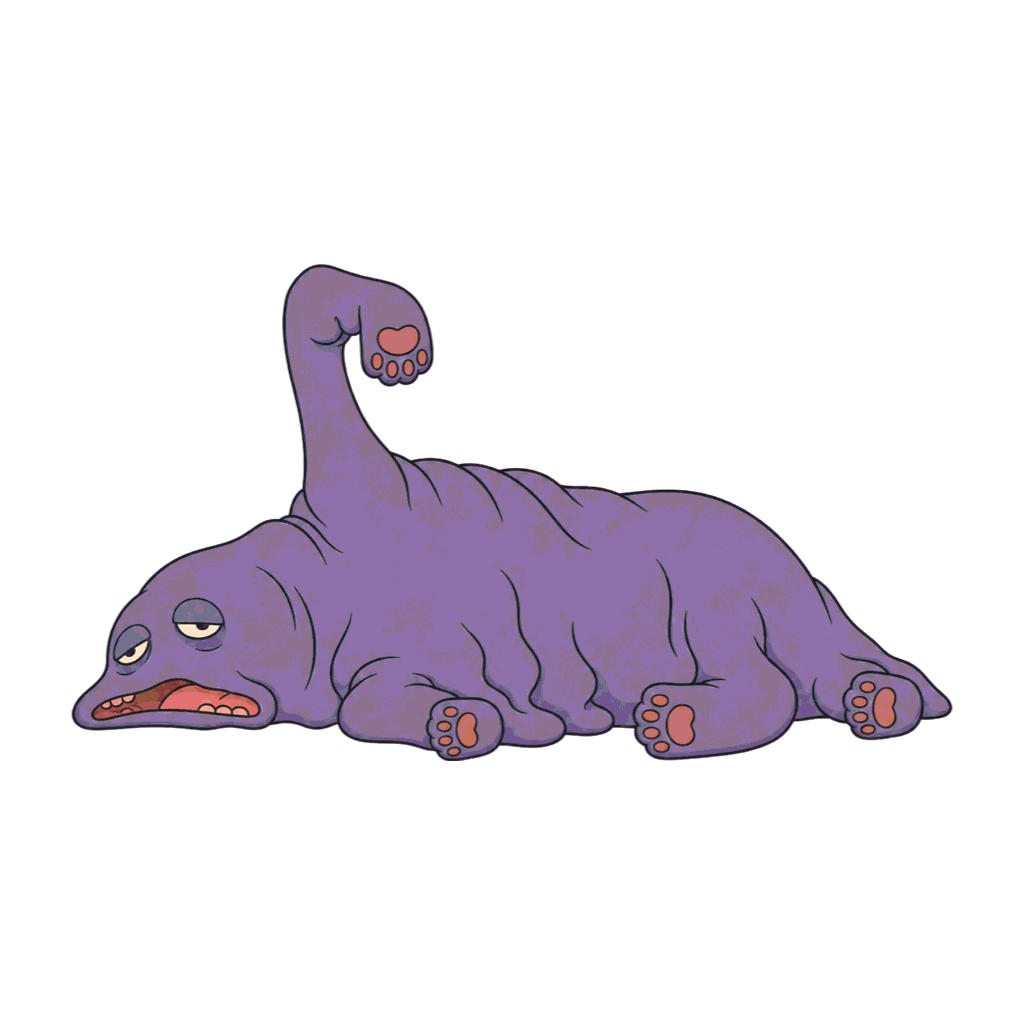
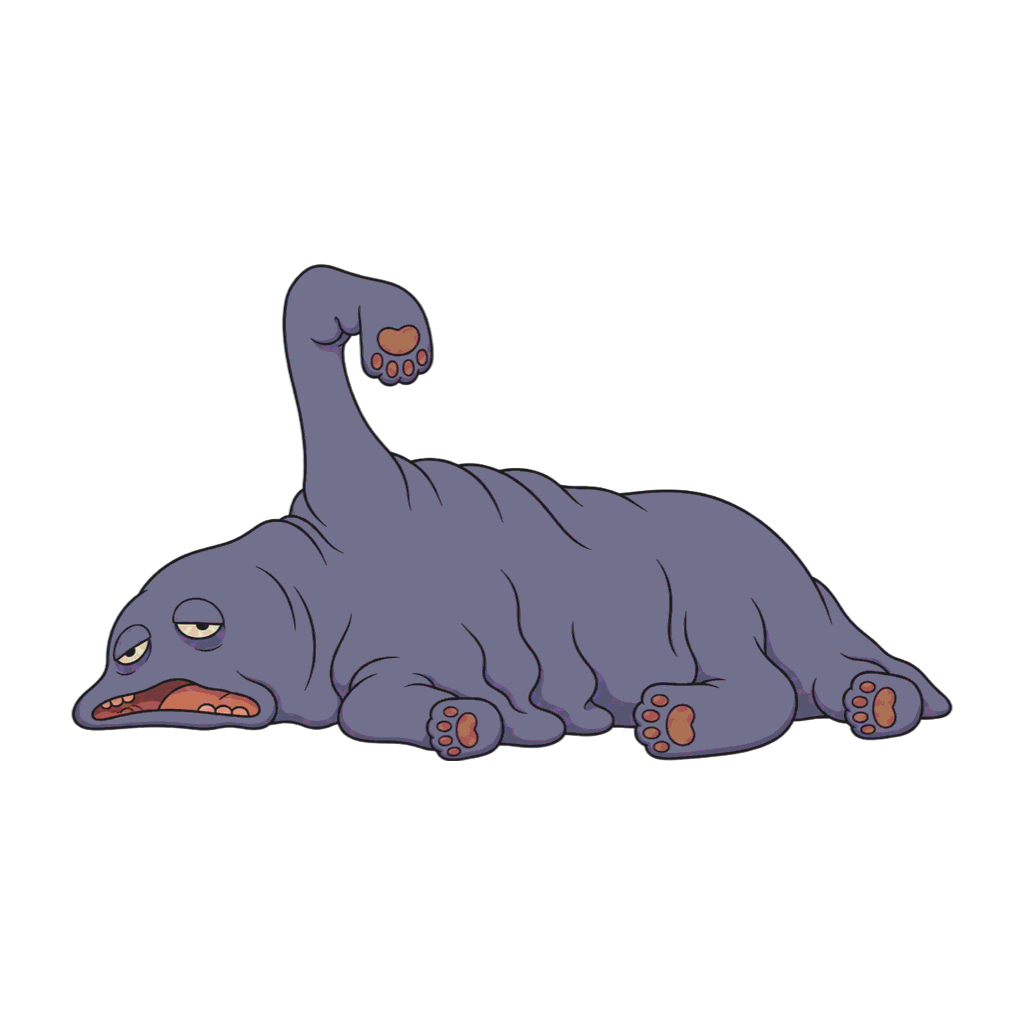
fix: 色の正規化を後処理に移し、生成の引き直し問題を回避した
ダラリの頭が胴と一体化して「切れて見える」という指摘から始まり、4回作り直した
結果、生成は毎回すべての属性を引き直すことが分かった。ある属性を指定で直すと
別の属性が壊れる。

  1回目 頭が平ら / 2回目 頭は直ったが痩せた / 3回目 質量は戻ったが紫に寄った
  4回目 色は直ったが頭が戻った

ゴロネでも同じことが起きている（向きを固定したら四肢が消えた）。

そこで役割を分けた。シルエットと造形は生成でしか作れないのでプロンプトで扱うが、
**明度と彩度は後処理で機械的に揃える**。ART_PROMPTS.md 4章が「生成のばらつきは
ここで吸収する」と書いているとおりで、最初からこうすべきだった。

パイプラインが不透明部の平均明度を 107、平均彩度を 0.23 に寄せる。色相は触らない
ので個体ごとの色味は残る。全アセットに同じ目標を適用するため、「1体だけ明るい」
「1体だけ紫」が構造的に起きなくなる。

結果、明度の幅 11.9 → 7.2、彩度は 0.215〜0.229 に収束した。ゴロネの紫寄り（0.287）
も解消。実測ツールにも彩度とアクセント面積の合否判定を追加した。

STYLE SPEC の明度・彩度の記述は保険として残すが、主たる手段ではないと明記した。

Changed region(s): [[0.0625, 0.25, 0.9375, 0.75]]

diff --git a/tools/artpipeline/main.swift b/tools/artpipeline/main.swift
@@ -50,6 +50,14 @@ enum Config {
 
     /// ポスタリゼーションの階調数。8〜12色相当。
     static let posterizeLevels = 10
+
+    /// 色の正規化の目標値。
+    ///
+    /// **明度と彩度はプロンプトで揃えようとしないこと。** 生成は毎回すべての属性を
+    /// 引き直すため、色を指定し直すと造形が崩れる（実際にダラリで3回起きた）。
+    /// シルエットは生成でしか作れないが、色は機械的に揃えられる。ここで吸収する。
+    static let targetLuminance = 107.0
+    static let targetSaturation = 0.23
 }
 
 // MARK: - 画像の読み書き
@@ -315,6 +323,56 @@ func normalize(_ bitmap: Bitmap) -> Bitmap? {
     return Bitmap(width: side, height: side, pixels: output)
 }
 
+// MARK: - 3b. 色の正規化
+
+/// 不透明部の平均明度と平均彩度を目標値へ寄せる。
+///
+/// 全アセットに同じ目標を適用するので、並べたときに「1体だけ明るい」「1体だけ紫」が
+/// 構造的に起きなくなる。色相は触らないため、個体ごとの色味の差は残る。
+func normalizeColor(_ bitmap: inout Bitmap) -> (luminance: Double, saturation: Double) {
+    var lumSum = 0.0, satSum = 0.0, count = 0
+    for y in 0..<bitmap.height {
+        for x in 0..<bitmap.width {
+            let p = bitmap[x, y]
+            guard p.a > 128 else { continue }
+            let r = Double(p.r), g = Double(p.g), b = Double(p.b)
+            lumSum += 0.2126 * r + 0.7152 * g + 0.0722 * b
+            let mx = max(r, g, b), mn = min(r, g, b)
+            satSum += mx > 0 ? (mx - mn) / mx : 0
+            count += 1
+        }
+    }
+    guard count > 0 else { return (0, 0) }
+
+    let meanLum = lumSum / Double(count)
+    let meanSat = satSum / Double(count)
+    let lumScale = meanLum > 0 ? Config.targetLuminance / meanLum : 1
+    let satScale = meanSat > 0 ? Config.targetSaturation / meanSat : 1
+
+    for y in 0..<bitmap.height {
+        for x in 0..<bitmap.width {
+            var p = bitmap[x, y]
+            guard p.a > 0 else { continue }
+            var r = Double(p.r), g = Double(p.g), b = Double(p.b)
+
+            // 彩度: 各画素の最大値からの差を伸縮させる。色相は保つ。
+            let mx = max(r, g, b)
+            r = mx - (mx - r) * satScale
+            g = mx - (mx - g) * satScale
+            b = mx - (mx - b) * satScale
+
+            // 明度: 全体を一律に伸縮させる。
+            r *= lumScale; g *= lumScale; b *= lumScale
+
+            p.r = UInt8(max(0, min(255, r)))
+            p.g = UInt8(max(0, min(255, g)))
+            p.b = UInt8(max(0, min(255, b)))
+            bitmap[x, y] = p
+        }
+    }
+    return (meanLum, meanSat)
+}
+
 // MARK: - 4. ポスタリゼーション
 
 /// 全アセットに同一設定で適用する。生成ごとの微妙な色の揺れを吸収する。
@@ -351,6 +409,7 @@ guard var normalized = normalize(bitmap) else {
     print("本体が見つかりません（背景の除去が効きすぎている可能性）: \(arguments[1])")
     exit(1)
 }
+let before = normalizeColor(&normalized)
 posterize(&normalized)
 
 guard normalized.write(to: arguments[2]) else {
@@ -360,7 +419,8 @@ guard normalized.write(to: arguments[2]) else {
 
 let total = bitmap.width * bitmap.height
 let percent = Double(removed) / Double(total) * 100
-print(String(format: "%@ → %@  背景除去 %.1f%%  %dx%d",
+print(String(format: "%@ → %@  背景除去 %.1f%%  色補正 明度%.0f→%.0f 彩度%.2f→%.2f",
              (arguments[1] as NSString).lastPathComponent,
              (arguments[2] as NSString).lastPathComponent,
-             percent, Config.canvasSize, Config.canvasSize))
+             percent, before.luminance, Config.targetLuminance,
+             before.saturation, Config.targetSaturation))

diff --git a/tools/artstats/main.swift b/tools/artstats/main.swift
@@ -31,15 +31,23 @@ for path in CommandLine.arguments.dropFirst() {
     let lum = lumSum / Double(opaque)
     lums.append(lum)
     let name = (path as NSString).deletingPathExtension as NSString
-    print(String(format: "%-14@ %8.1f %7.1f%% %8.3f %7.1f%%",
+    let sat = satSum / Double(opaque)
+    let warmRatio = Double(warm) / Double(opaque) * 100
+    // 合格条件: 彩度 0.20〜0.27（灰紫）/ アクセント面積 3〜6%
+    var flags: [String] = []
+    if sat > 0.27 { flags.append("彩度↑") } else if sat < 0.20 { flags.append("彩度↓") }
+    if warmRatio > 6 { flags.append("アクセント↑") } else if warmRatio < 3 { flags.append("アクセント↓") }
+    print(String(format: "%-14@ %8.1f %7.1f%% %8.3f %7.1f%%  %@",
                  name.lastPathComponent as NSString, lum,
                  Double(opaque) / Double(w * h) * 100,
-                 satSum / Double(opaque),
-                 Double(warm) / Double(opaque) * 100))
+                 sat, warmRatio,
+                 (flags.isEmpty ? "✅" : flags.joined(separator: " ")) as NSString))
 }
 if lums.count > 1 {
     let mean = lums.reduce(0,+) / Double(lums.count)
     let sd = (lums.map { ($0-mean)*($0-mean) }.reduce(0,+) / Double(lums.count)).squareRoot()
-    print(String(format: "\n明度の幅: %.1f 〜 %.1f （差 %.1f / 標準偏差 %.1f）",
-                 lums.min()!, lums.max()!, lums.max()! - lums.min()!, sd))
+    let spread = lums.max()! - lums.min()!
+    print(String(format: "\n明度の幅: %.1f 〜 %.1f （差 %.1f / 標準偏差 %.1f） %@",
+                 lums.min()!, lums.max()!, spread, sd,
+                 (spread <= 15 ? "✅" : "❌ 15以内に収めること") as NSString))
 }

diff --git a/ART_PROMPTS.md b/ART_PROMPTS.md
@@ -67,6 +67,10 @@ STYLE SPEC (identical for every image in this set):
   no texture, no highlights, no glow, no rendering.
 - Limited, desaturated, muted palette. Base hues in the grey-violet and dusty
   blue range.
+- IMPORTANT — the body color must be a MUTED GREY-VIOLET that sits much closer
+  to grey than to purple. It should look almost desaturated, like grey with only
+  a faint violet cast. Never let the body read as a vivid, clearly purple,
+  lavender or lilac color. When in doubt, remove saturation.
 - IMPORTANT — every creature in the set must share the same overall brightness.
   The body must read as a MID-DARK tone: clearly darker than a light background,
   never pale or washed out. Do not make any single creature lighter or airier
@@ -96,7 +100,11 @@ STYLE SPEC (identical for every image in this set):
 
 ```
 CHARACTER: A slouching blob creature that has half-melted downward and pooled
-into a puddle at its own base. Rounded, drooping shoulders it cannot hold up.
+into a puddle at its own base. The body is BULKY, HEAVY and WIDE — a thick
+sagging mass, never thin or spindly. Above it sits a CLEARLY DEFINED ROUNDED
+HEAD: a smooth dome that is somewhat narrower than the bulky body, separated
+from it by sloping drooping shoulders. The head must read as a head, but the
+body below must stay visibly heavier and wider than the head.
 Two heavy-lidded eyes with pupils drifting in different directions. A small
 mouth left hanging open. Two thin arms hanging straight down, dragging on the
 floor. Accent color: dull mustard yellow on the underside of the puddle.
@@ -147,7 +155,11 @@ Accent color: faded brick red on the pads of all visible paws.
 
 ```
 CHARACTER: A slouching blob creature that has half-melted downward and pooled
-into a puddle at its own base. Rounded, drooping shoulders it cannot hold up.
+into a puddle at its own base. The body is BULKY, HEAVY and WIDE — a thick
+sagging mass, never thin or spindly. Above it sits a CLEARLY DEFINED ROUNDED
+HEAD: a smooth dome that is somewhat narrower than the bulky body, separated
+from it by sloping drooping shoulders. The head must read as a head, but the
+body below must stay visibly heavier and wider than the head.
 Two heavy-lidded eyes with pupils drifting in different directions. A small
 mouth left hanging open. Two thin arms hanging straight down, dragging on the
 floor. Accent color: dull mustard yellow on the underside of the puddle.
@@ -422,7 +434,34 @@ Accent color: warm amber on the inner lining of the hood.
 **2つ以上落ちる場合はスタイルブロックの記述を修正する。**
 個体ブロックをいじって直そうとしないこと。原因は固定側にある。
 
-### 明度とアクセント面積は目視で判断しないこと
+### 明度と彩度はプロンプトで揃えようとしないこと（2026-07-26 の教訓）
+
+**生成は毎回すべての属性を引き直す。** ある属性を指定で直すと、別の属性が壊れる。
+ダラリで実際に4回起きた。
+
+| 回 | 頭の分離 | 質量 | 色 |
+|---|---|---|---|
+| 1 | ❌ 平ら | ✅ | ✅ |
+| 2 | ✅ | ❌ 痩せた | ✅ |
+| 3 | ✅ | ✅ | ❌ 紫に寄った |
+| 4 | ❌ 戻った | ✅ | ✅ |
+
+ゴロネでも同じことが起きた（向きを固定したら四肢が消えた）。
+
+**そこで役割を分けた。**
+
+| 性質 | 直す場所 | 理由 |
+|---|---|---|
+| シルエット・造形・ポーズ | プロンプト | 生成でしか作れない |
+| **明度・彩度** | **後処理（`tools/artpipeline`）** | 機械的に揃う。引き直しが起きない |
+
+後処理は不透明部の平均明度を 107、平均彩度を 0.23 に寄せる。色相は触らないので
+個体ごとの色味の差は残る。全アセットに同じ目標を適用するため、
+**「1体だけ明るい」「1体だけ紫」が構造的に起きなくなる。**
+
+STYLE SPEC 側の明度・彩度の記述は残してあるが、**保険であって主たる手段ではない**。
+
+### アクセント面積は目視で判断しないこと
 
 「1体だけ浮いている」は目で見ても分からない。実測する。
 
